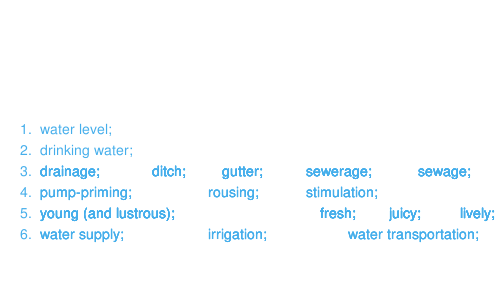
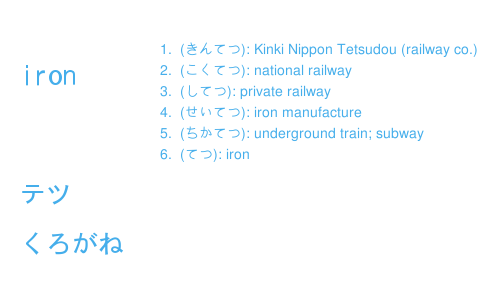
core functionality done, can now make flashcards by inputting a kanji

diff --git a/flcm.py b/flcm.py
@@ -24,6 +24,7 @@ def makeCards(inKanji):
   commonWords = []
   commonWordsTrans = []
   commonWordsChoice = []
+  commonWordsHir = []
   duplicate = 0
 
   for entry in jmdicInfo:
@@ -41,10 +42,14 @@ def makeCards(inKanji):
               for gloss in entry.iter('gloss'):
                 temp.append(gloss.text)
               commonWordsTrans.append(temp)
+              temp = []
+              for hiragana in entry.iter('reb'):
+                temp.append(hiragana.text)
+              commonWordsHir.append(temp)
   i = 0
   if(len(commonWords) > 6):
     words = 6
-    while i < words:
+    """while i < words:
       rand = random.randint(0, len(commonWords)-1)
       for rands in commonWordsChoice:
         duplicate = 0
@@ -52,8 +57,9 @@ def makeCards(inKanji):
           duplicate = 1
       
       while duplicate == 1:
-        rand = random.randint(0, len(commonWords)-1)
-      commonWordsChoice.append(rand)
+        rand = random.randint(0, len(commonWords)-1)"""
+    while i < words:
+      commonWordsChoice.append(i)
       i=i+1
   else:
     words = len(commonWords)
@@ -65,7 +71,7 @@ def makeCards(inKanji):
   makeFront(inKanji, commonWordsChoice, commonWords)
   print str(f+1)+' : Front Done'
   b = 0
-  makeBack(inKanji, commonWordsChoice, commonWordsTrans)
+  makeBack(inKanji, commonWordsChoice, commonWordsTrans, commonWordsHir)
   print str(b+1)+' : Back Done'
   f = f+1
   b = b+1
@@ -122,26 +128,38 @@ def makeFront(inKanji, commonWordsChoice, commonWords):
   card.save('cards/testfront.png')
   return
 
-def makeBack(inKanji, commonWordsChoice, commonWordsTrans):
+def makeBack(inKanji, commonWordsChoice, commonWordsTrans, commonWordsHir):
   card = Image.new('RGB', (500, 300), (255,255,255))
   draw = ImageDraw.Draw(card)
-  kanjiInfo = kanjidic(inKanji)
-  on = []
-  kun = []
-  english = []
+
+  #Draw on/kun yomi
+  kanjiInfo = kanjidic2(inKanji)
+  onyomi = []
+  kunyomi = []
+  meaning = []
+  for character in kanjiInfo:
+    for on in character.iter('reading'):
+      if(on.get('r_type') == 'ja_on'):
+        onyomi.append(on.text)
+    for kun in character.iter('reading'):
+      if(kun.get('r_type') == 'ja_kun'):
+        kunyomi.append(kun.text)
+    for mean in character.iter('meaning'):
+      if(not mean.get('m_lang')):
+        meaning.append(mean.text)
+  
+  font = ImageFont.truetype(fontSanSerif, 26)
+  draw.text((20, 180), "; ".join(onyomi), font=font, fill=(69,174,235))
+  draw.text((20, 230), "; ".join(kunyomi), font=font, fill=(69,174,235))
+  font = ImageFont.truetype(fontSanSerif, 28)
+  draw.text((20, 60), "\n".join(meaning), font=font, fill=(69,174,235))
   
   #draw compunds
   font = ImageFont.truetype(fontSmall, 14)
   i = 0
   while i < len(commonWordsChoice):
-    draw.text((20, 100+(21*(i+1))), str(i+1)+'.', font=font, fill=(69,174,235))
-    j = 0
-    while j < len(commonWordsTrans[commonWordsChoice[i]]):
-      pos = 0
-      for gloss in commonWordsTrans[commonWordsChoice[i]]:
-        draw.text((40+pos, 100+(21*(i+1))), gloss+'; ', font=font, fill=(69,174,235))
-        pos = pos + (len(gloss)*14)
-      j = j+1
+    draw.text((160, 20+(21*(i+1))), str(i+1)+'.', font=font, fill=(69,174,235))
+    draw.text((180, 20+(21*(i+1))), '('+'; '.join(commonWordsHir[commonWordsChoice[i]])+'): '+'; '.join(commonWordsTrans[commonWordsChoice[i]][:3]) , font=font, fill=(69,174,235))
     i = i+1
   
   card.save('cards/testback.png')
@@ -232,6 +250,6 @@ def is_on(reading):
 def is_kun(reading):
   return not (is_latin(reading) or is_on(reading))
 
-inKanji = u'水'.strip()
+inKanji = u'鉄'.strip()
 
 makeCards(inKanji)
